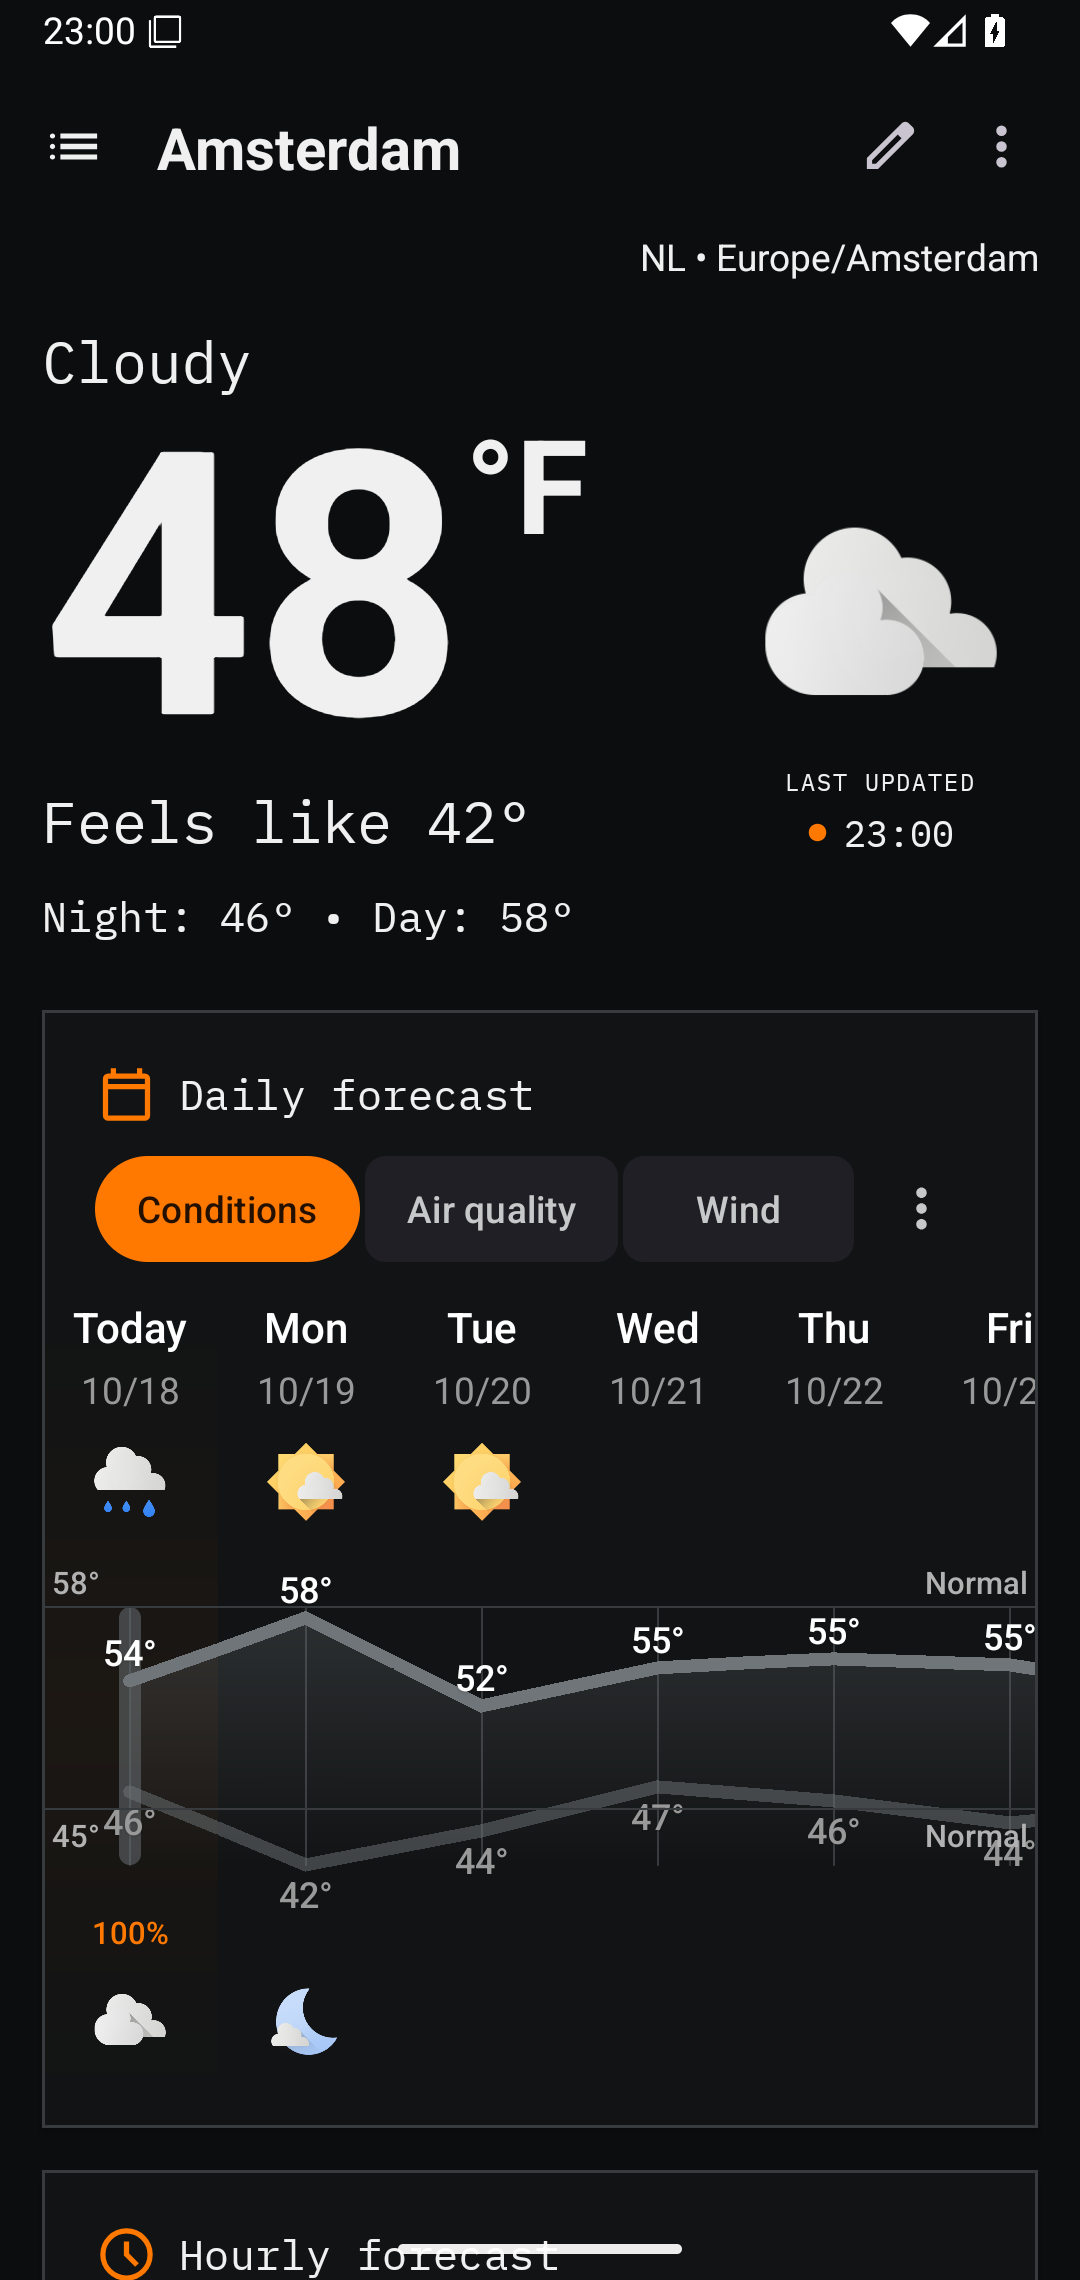
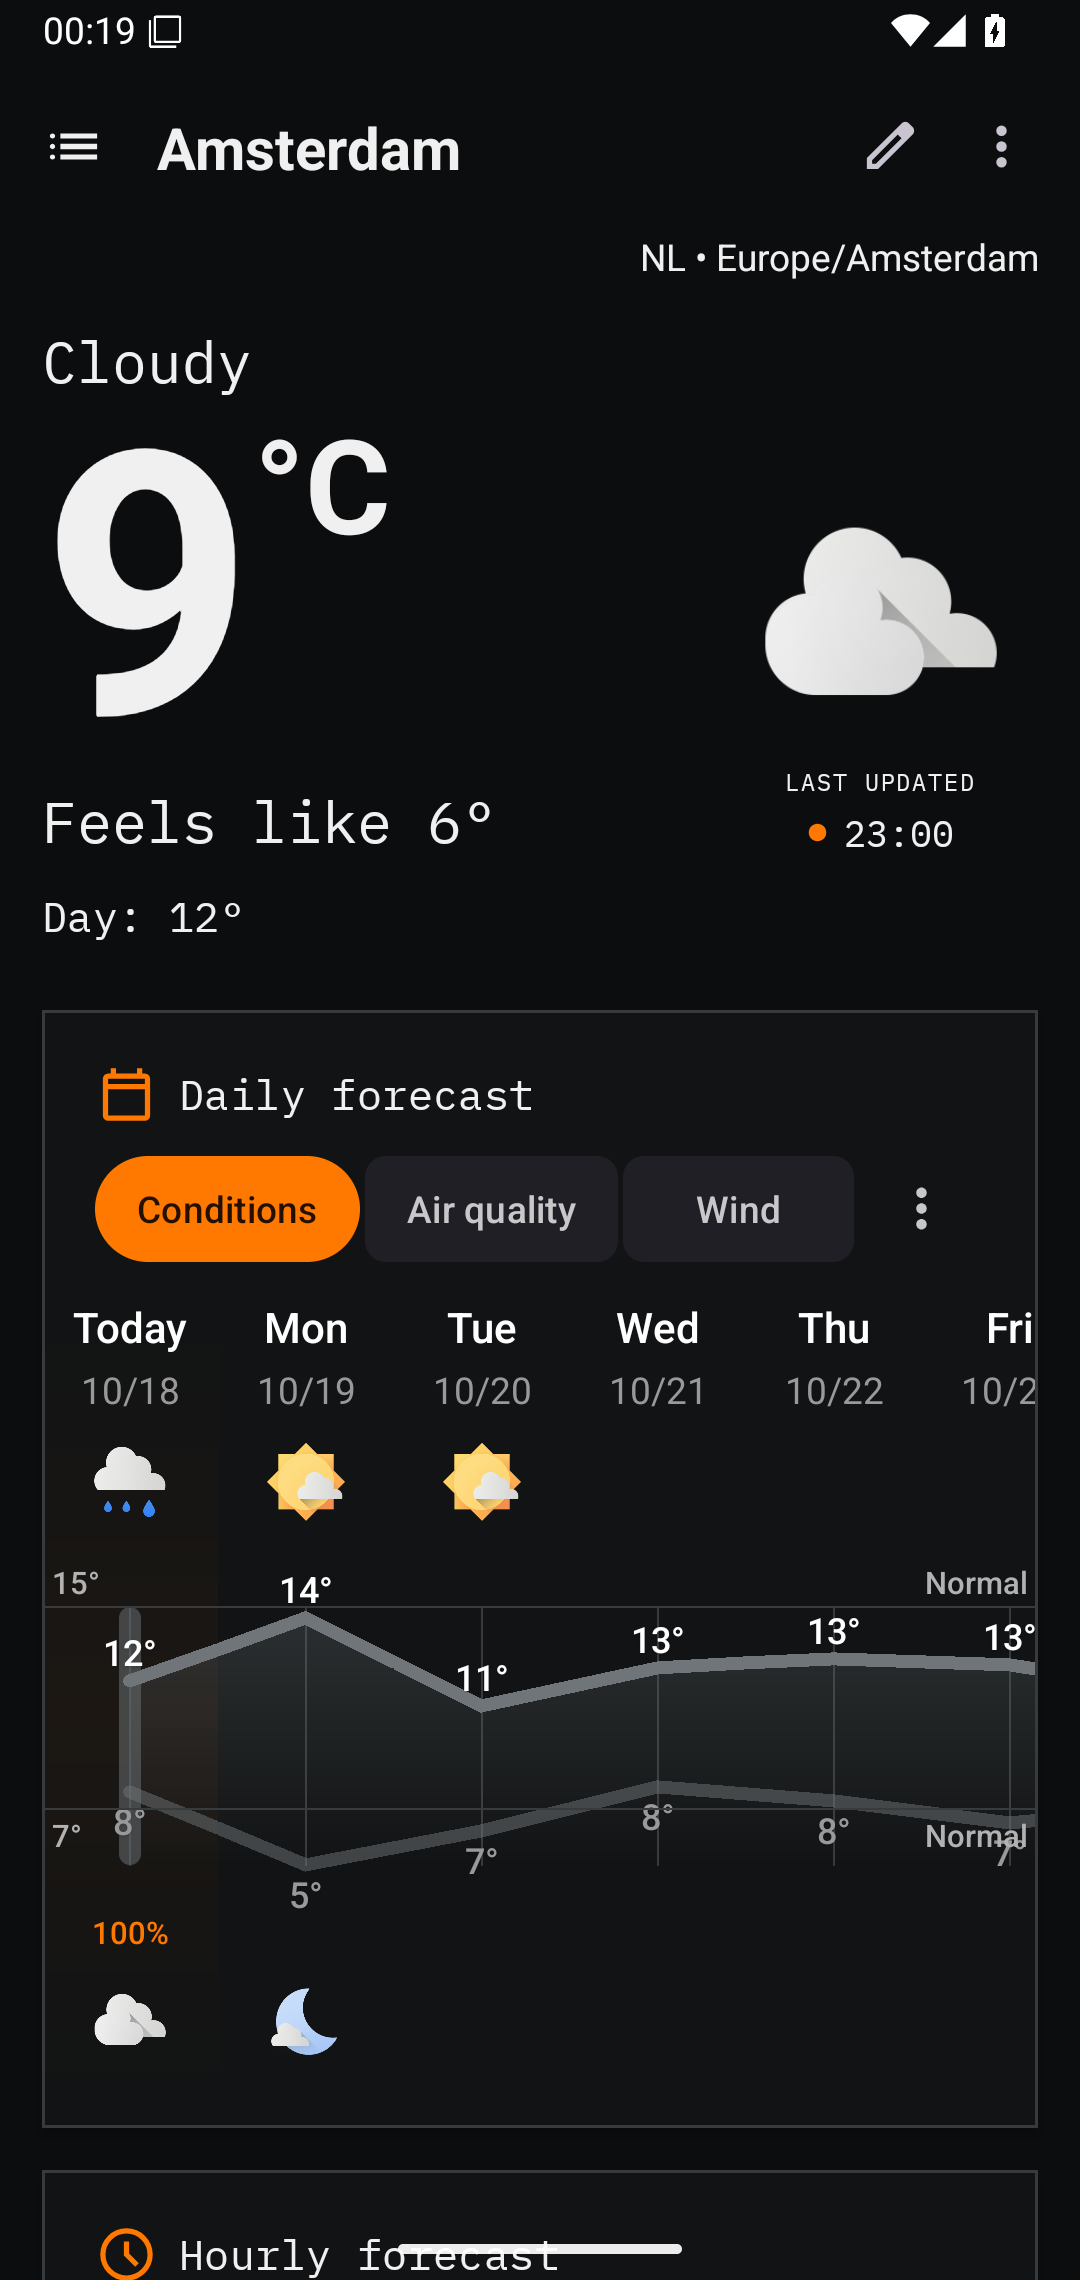
Refresh README screenshots in Celsius

diff --git a/README.md b/README.md
@@ -74,13 +74,13 @@ alt="Get it on F-Droid" align="center" height="80" /></a>
 The screenshots below show this fork's customized Amsterdam dashboard and settings.
 
 <div align="center">
-    <img src="docs/screenshots/readme/amsterdam-01-main-light.png" alt="Amsterdam weather dashboard in light mode" style="width: 300px" />
-    <img src="docs/screenshots/readme/amsterdam-02-main-dark.png" alt="Amsterdam weather dashboard in dark mode" style="width: 300px" />
-    <img src="docs/screenshots/readme/amsterdam-03-forecasts.png" alt="Amsterdam daily and hourly forecasts" style="width: 300px" />
-    <img src="docs/screenshots/readme/amsterdam-04-weather-cards.png" alt="Amsterdam weather detail cards" style="width: 300px" />
-    <img src="docs/screenshots/readme/amsterdam-05-appearance.png" alt="Appearance settings" style="width: 300px" />
-    <img src="docs/screenshots/readme/amsterdam-06-weather-sources.png" alt="Weather source settings" style="width: 300px" />
-    <img src="docs/screenshots/readme/amsterdam-07-forecast-details.png" alt="Detailed Amsterdam forecast" style="width: 300px" />
+    <img src="docs/screenshots/readme/amsterdam-celsius-01-main-light.png" alt="Amsterdam weather dashboard in light mode" style="width: 300px" />
+    <img src="docs/screenshots/readme/amsterdam-celsius-02-main-dark.png" alt="Amsterdam weather dashboard in dark mode" style="width: 300px" />
+    <img src="docs/screenshots/readme/amsterdam-celsius-03-forecasts.png" alt="Amsterdam daily and hourly forecasts" style="width: 300px" />
+    <img src="docs/screenshots/readme/amsterdam-celsius-04-weather-cards.png" alt="Amsterdam weather detail cards" style="width: 300px" />
+    <img src="docs/screenshots/readme/amsterdam-celsius-05-appearance.png" alt="Appearance settings" style="width: 300px" />
+    <img src="docs/screenshots/readme/amsterdam-celsius-06-weather-sources.png" alt="Weather source settings" style="width: 300px" />
+    <img src="docs/screenshots/readme/amsterdam-celsius-07-forecast-details.png" alt="Detailed Amsterdam forecast" style="width: 300px" />
 </div>
 
 # ✨ Features
